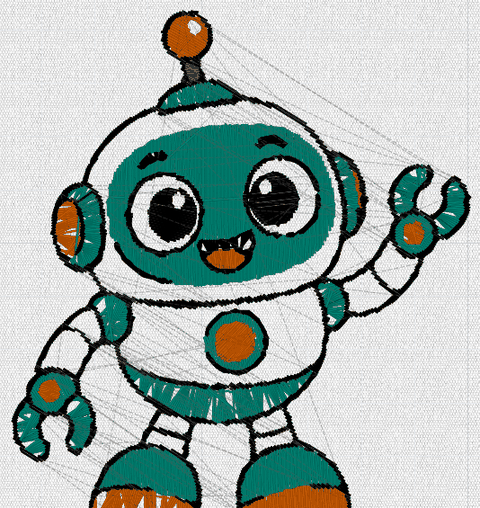
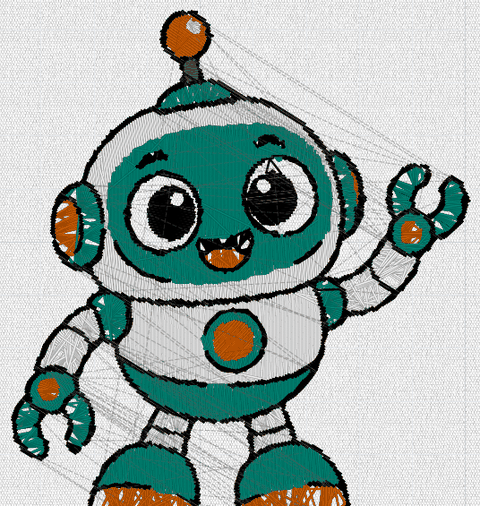
Auto Punch OpenStitch mode: line art keeps its lines
In OpenStitch mode the round-5 mandala (g11) sewed 211 stitches against
PE-DESIGN mode's 2,590. Three measured changes:

- The background is left out by colour, not by thread. Light-grey edge
  shades that share the white thread (9.7 ΔE00 from white) stay.
- On line art (the left-out background covers >= 75 % of the image),
  a small region whose mean width is <= 0.5 mm and which is at least
  twice as long stays as a piece of a line. This uses the new
  regions::merge_small_except. Applying it to every image undid the
  speck cleanup on photos.
- No majority pass. It erased 1 px lines and cost the lettering 0.6 ΔE.

Mandala: 2,195 stitches, ΔE 4.6 (PE-DESIGN mode 4.5). Nine other images,
against #240's first version: mean ΔE 8.7 -> 8.6, stitches -14 % (was
-20 %), trims -48 % (was -52 %) against PE-DESIGN mode, specks 10 (the
lettering's slivers). PE-DESIGN mode is unchanged.

New test open_stitch_mode_keeps_thin_lines, which fails without the
change. The gallery's OpenStitch images are regenerated. Docs: the
research note (section 2.2), ARCHITECTURE, FEATURE_MATRIX, ROADMAP and
the README wording.

diff --git a/crates/openstitch-digitize/src/autopunch.rs b/crates/openstitch-digitize/src/autopunch.rs
@@ -166,6 +166,14 @@ pub fn border_majority(labels: &[u16], w: usize, h: usize) -> Option<u16> {
         .next()
 }
 
+/// OpenStitch mode: a region under the minimum area is kept as a piece of a line when its mean
+/// width (area over its longest side) is at most this, mm, and it is at least twice as long.
+pub const LINE_WIDTH_MM: f64 = 0.5;
+
+/// OpenStitch mode treats an image as line art when the background it leaves out covers at
+/// least this share of the opaque pixels (the mandala about 0.9; photos and paintings far less).
+pub const LINE_ART_SHARE: f64 = 0.75;
+
 pub fn convert(image: &Raster, frame: &Frame, p: &AutoPunch) -> Result<Converted, DigitizeError> {
     let work = image.fit_mode(p.resolution.clamp(16, 2048));
     let frame = frame.rescaled(image.width(), work.width());
@@ -185,23 +193,63 @@ pub fn convert(image: &Raster, frame: &Frame, p: &AutoPunch) -> Result<Converted
         Mode::OpenStitch => Palette::from_census_perceptual(&census, colors),
     };
     let mut labels = label(&census, &palette);
-    let background = if p.skip_background {
-        border_majority(&labels, w, h)
-    } else {
-        None
-    };
-    if let Some(bg) = background {
-        for l in &mut labels {
-            if *l == bg {
-                *l = NONE;
+    let background = match (p.skip_background, p.mode) {
+        (false, _) => None,
+        (true, Mode::PeDesign) => {
+            let bg = border_majority(&labels, w, h);
+            if let Some(bg) = bg {
+                for l in &mut labels {
+                    if *l == bg {
+                        *l = NONE;
+                    }
+                }
             }
+            bg
         }
-    }
+        (true, Mode::OpenStitch) => {
+            // Only the background colour's own pixels are left out, not every colour that
+            // shares its thread: a thin line's light-grey edge shades sew in the white thread
+            // rather than vanish with the white background (round-5 mandala, g11).
+            let means: Vec<u16> = census
+                .modal
+                .iter()
+                .map(|m| m.map_or(NONE, |c| palette.nearest_mean(c) as u16))
+                .collect();
+            let bg = border_majority(&means, w, h);
+            if let Some(bg) = bg {
+                for (l, m) in labels.iter_mut().zip(&means) {
+                    if *m == bg {
+                        *l = NONE;
+                    }
+                }
+            }
+            bg.map(|m| palette.thread_of[m as usize] as u16)
+        }
+    };
     let unsmoothed = labels.clone();
     regions::majority(&mut labels, w, h, p.smooth.min(5));
     // The frame scales x and y alike, so the working pixel's mm/px is both ratios.
     let floor = small_region_floor(p.min_area_mm2, frame.mm_per_px());
-    regions::merge_small(&mut labels, w, h, floor + 1);
+    match p.mode {
+        Mode::PeDesign => regions::merge_small(&mut labels, w, h, floor + 1),
+        Mode::OpenStitch => {
+            // On line art (the left-out background covers at least [`LINE_ART_SHARE`] of the
+            // image) only compact specks merge: a small region whose mean width (area over its
+            // longest side) is at most [`LINE_WIDTH_MM`] is a piece of a line, and stays. On
+            // photos and paintings such slivers are edge shades, and merge.
+            let opaque = census.modal.iter().filter(|m| m.is_some()).count().max(1);
+            let left_out = labels.iter().filter(|&&l| l == NONE).count()
+                - census.modal.iter().filter(|m| m.is_none()).count();
+            let line_art = left_out as f64 >= LINE_ART_SHARE * opaque as f64;
+            let mm = frame.mm_per_px();
+            regions::merge_small_except(&mut labels, w, h, floor + 1, |k| {
+                let long = (k.x1 - k.x0).max(k.y1 - k.y0) as f64 * mm;
+                line_art
+                    && long >= 2.0 * LINE_WIDTH_MM
+                    && k.area as f64 * mm * mm / long <= LINE_WIDTH_MM
+            });
+        }
+    }
     let (mut id, mut comps) = regions::components(&labels, w, h);
     if comps.is_empty() && p.mode == Mode::OpenStitch {
         // OpenStitch mode's cleanup can merge away a drawing made only of thin lines (the

diff --git a/crates/openstitch-engine/src/digitize.rs b/crates/openstitch-engine/src/digitize.rs
@@ -129,7 +129,7 @@ pub fn commands() -> Vec<CommandSpec> {
                 opt(
                     "smooth",
                     "int 0-5",
-                    "Extra majority-filter passes on the labels after the 3×3 modal colour census (default 0; 1 in OpenStitch mode)",
+                    "Extra majority-filter passes on the labels after the 3×3 modal colour census (default 0)",
                 ),
                 opt(
                     "simplify",
@@ -165,17 +165,17 @@ pub fn commands() -> Vec<CommandSpec> {
             |s, p| {
                 let (image, frame) = load(s, p)?;
                 let mode = mode(p)?;
-                // OpenStitch mode also cleans up: regions under 3 mm² merge and the labels get
-                // one majority pass, unless the caller sets them.
-                let (min_area, smooth) = match mode {
-                    Mode::PeDesign => (1.0, 0),
-                    Mode::OpenStitch => (3.0, 1),
+                // OpenStitch mode also cleans up: specks under 3 mm² merge, unless the caller
+                // sets the area.
+                let min_area = match mode {
+                    Mode::PeDesign => 1.0,
+                    Mode::OpenStitch => 3.0,
                 };
                 let options = AutoPunch {
                     colors: count(p, "colors", AutoPunch::default().colors as i64, 0, 64)?,
                     resolution: count(p, "resolution", 400, 64, 2048)? as u32,
                     min_area_mm2: p.opt("minArea", min_area, 0.0, 1000.0)?,
-                    smooth: count(p, "smooth", smooth, 0, 5)? as u32,
+                    smooth: count(p, "smooth", 0, 0, 5)? as u32,
                     trace: trace_options(p, 0.7)?,
                     satin_max_mm: p.opt("satinMaxWidth", 6.5, 1.0, 12.0)?,
                     satin_min_mm: p.opt("satinMinWidth", 0.7, 0.0, 6.0)?,

diff --git a/crates/openstitch-digitize/tests/perceptual.rs b/crates/openstitch-digitize/tests/perceptual.rs
@@ -111,11 +111,40 @@ fn open_stitch_mode_merges_specks() {
         &AutoPunch {
             mode: Mode::OpenStitch,
             min_area_mm2: 3.0,
-            smooth: 1,
             ..AutoPunch::default()
         },
     )
     .expect("openstitch");
     assert!(pe.objects.len() > 1, "PE mode keeps the specks");
     assert_eq!(os.objects.len(), 1, "OpenStitch mode sews the field alone");
+}
+
+/// Line art keeps its lines in OpenStitch mode (the round-5 mandala, g11): short, thin pieces
+/// of a dark line with light-grey edges, on white, are not merged as specks, and their light
+/// edges are not left out with the white background that shares their thread.
+#[test]
+fn open_stitch_mode_keeps_thin_lines() {
+    // 200 × 200 px at 0.25 mm/px: dashes 1 px (0.25 mm) wide and 12 px (3 mm) long, each with
+    // a light-grey shade on both sides, on white.
+    let img = flat(200, 200, |x, y| {
+        let dash = (x / 16) % 2 == 0 && x > 8 && x < 192;
+        match y % 40 {
+            20 if dash => [30, 30, 30],
+            19 | 21 if dash => [215, 215, 215],
+            _ => [255, 255, 255],
+        }
+    });
+    let frame = Frame::new(0.0, 0.0, 50.0, 200);
+    let os = autopunch::convert(
+        &img,
+        &frame,
+        &AutoPunch {
+            mode: Mode::OpenStitch,
+            min_area_mm2: 3.0,
+            ..AutoPunch::default()
+        },
+    )
+    .expect("the dashes are sewn");
+    // Five lines of six dashes each.
+    assert_eq!(os.objects.len(), 30, "every dash of every line stays");
 }

diff --git a/crates/openstitch-digitize/src/palette.rs b/crates/openstitch-digitize/src/palette.rs
@@ -312,6 +312,15 @@ impl Palette {
 
     /// Thread index of the box mean nearest to `c` (ties to the lower index).
     pub fn classify(&self, c: Rgb) -> usize {
+        self.thread_of
+            .get(self.nearest_mean(c))
+            .copied()
+            .unwrap_or(0)
+    }
+
+    /// Index of the box mean nearest to `c` (ties to the lower index): by CIEDE2000 in
+    /// OpenStitch mode, by RGB distance otherwise.
+    pub fn nearest_mean(&self, c: Rgb) -> usize {
         if self.perceptual {
             let l = perceptual::lab(c);
             let mut best = (f64::INFINITY, 0);
@@ -321,7 +330,7 @@ impl Palette {
                     best = (d, i);
                 }
             }
-            return self.thread_of.get(best.1).copied().unwrap_or(0);
+            return best.1;
         }
         let t = thread(c);
         let mut best = (i64::MAX, 0);
@@ -331,7 +340,7 @@ impl Palette {
                 best = (d, i);
             }
         }
-        self.thread_of.get(best.1).copied().unwrap_or(0)
+        best.1
     }
 }
 

diff --git a/crates/openstitch-digitize/src/regions.rs b/crates/openstitch-digitize/src/regions.rs
@@ -107,13 +107,25 @@ pub fn majority(labels: &mut [u16], w: usize, h: usize, passes: u32) {
 /// unsewn pixels become unsewn. Smallest first; repeated until none is left (at most 8
 /// rounds).
 pub fn merge_small(labels: &mut [u16], w: usize, h: usize, min_area: usize) {
+    merge_small_except(labels, w, h, min_area, |_| false);
+}
+
+/// [`merge_small`], keeping the small components `keep` accepts (OpenStitch mode keeps the
+/// long, thin pieces of line art and merges only compact specks).
+pub fn merge_small_except(
+    labels: &mut [u16],
+    w: usize,
+    h: usize,
+    min_area: usize,
+    keep: impl Fn(&Component) -> bool,
+) {
     if min_area <= 1 {
         return;
     }
     for _ in 0..8 {
         let (id, comps) = components(labels, w, h);
         let mut small: Vec<usize> = (0..comps.len())
-            .filter(|&c| comps[c].area < min_area)
+            .filter(|&c| comps[c].area < min_area && !keep(&comps[c]))
             .collect();
         if small.is_empty() {
             return;

diff --git a/docs/FEATURE_MATRIX.md b/docs/FEATURE_MATRIX.md
@@ -179,7 +179,7 @@ PE-DESIGN reference, sew-out) is generated from the compatibility report into
 | Editor | Sewing simulator: slider, play/pause with speed, step, needle marker, current colour; statistics (stitches, jumps, trims, colour changes, size, colours) matching `design.generate` | Implemented | `render_model_stops_at_simulator_position`, `stats_match_engine_and_compiled_design`; docs/images/rust-editor-sim.png | Thread length, sewing time; compare with PE-DESIGN's Stitch Simulator |
 | Editor | Self-update: startup check of GitHub releases (semver with pre-release order), dialog with the unseen releases' notes, Dismiss, "Don't remind me about this version", Update (download, SHA256SUMS check, in-place swap or MSI, restart); Options: check at startup, include pre-releases, check now | Implemented (v0.1.0-alpha.4) | `crates/openstitch-update` (26 tests against a local HTTP server: tag grammar, install kinds, selection, checksums, download, stage/swap/cleanup), `editor/updates.rs` (`skipped_version_stays_quiet_until_a_newer_one`), `update_ui.rs`; docs/research/updater.md (end-to-end record), docs/images/rust-editor-update.png | Signed packages (minisign) so a compromised release host cannot serve a tampered build; delta downloads; the tarball's thumbnailer |
 | Beyond PE-DESIGN | Contour (offset) fill, region type `contour` (B1): rows that follow the outline at a constant distance, the first half a spacing inside, then one every spacing (default 2.0 mm, 0.5–20) to the middle; holes and paired hole sewing get rings of their own; an inset that splits (a U) sews one branch whole before the next; Rings (every ring a closed loop, starts staggered by a golden-ratio fraction of a stitch), Single spiral (one path per branch, PE-DESIGN's Spiral Stitch blend half a row inside) or Double spiral (in over every other ring and back out, ending beside the start); Echo lines 0–30 (rings outside the shape, sewn first from the outermost in); corners Round or Mitred; run pitch, start inside, counter-clockwise; no travel from R1 or to R2; editor: Region sew type "Contour fill" | Implemented (beyond PE-DESIGN, internal tier) | `object.setRegion {type: contour, contourStrategy, contourJoin, echoLines, spacing, runPitch}`; `circle_rings_are_concentric_half_a_spacing_in_then_a_spacing_apart`, `rounded_rectangle_rings_follow_the_outline_at_a_constant_distance`, `single_spiral_is_one_path_that_never_crosses_itself`, `double_spiral_ends_next_to_where_it_began`, `a_hole_gets_rings_of_its_own_and_is_never_sewn_over`, `a_u_shape_splits_and_each_arm_is_sewn_whole`, `echo_lines_ring_the_shape_from_the_outside_in_first`, `mitred_echo_rings_keep_square_corners_round_ones_do_not`, `start_inside_reverses_and_counterclockwise_turns_the_other_way`, `the_region_type_defaults_and_stays_deterministic`, `a_ring_that_collapses_is_sewn_all_round_before_the_remnant`; engine `contour_fill_is_set_sewn_saved_and_undone`, `contour_fill_keeps_out_of_a_paired_hole`; examples/contour-fill.json; sketch [research/beyond/contour-fill.md](research/beyond/contour-fill.md) | Repeats (bean passes); bevel join; compat specs `contour-*` (sketch §5); a docs screenshot |
-| Beyond PE-DESIGN | Image wizards' "OpenStitch" mode (B16), Auto Punch: `compatMode: openStitch` (image dialog: Mode PE-DESIGN / OpenStitch), colours reduced by k-means in CIELAB and matched to threads by CIEDE2000 (distinct colours keep distinct threads), regions under 3 mm² merged with one majority pass; PE-DESIGN mode stays the default and unchanged; on the test images mean ΔE00 9.1 → 8.7, stitches −20 %, trims −52 %, no specks | Implemented (beyond PE-DESIGN, internal tier) | `digitize.autoPunch {compatMode}`; `perceptual.rs`, `Palette::from_census_perceptual`; `de2000_matches_the_published_test_pairs`, `lab_round_trips_and_has_the_white_point`, `kmeans_moves_centres_to_their_weighted_members`, `perceptual_palette_keeps_hues_apart`, `open_stitch_mode_merges_specks`, `requests_carry_the_settings`; measured with `tools/image_eval.py`; README gallery "PE-DESIGN mode / OpenStitch mode" (`tools/gallery.py`); [research/beyond/image-digitizing.md](research/beyond/image-digitizing.md) | Thin line art loses its lines (falls back to PE-DESIGN's cleanup when nothing is left); Photo Stitch 1's perceptual palette and error diffusion, SLIC segmentation planned |
+| Beyond PE-DESIGN | Image wizards' "OpenStitch" mode (B16), Auto Punch: `compatMode: openStitch` (image dialog: Mode PE-DESIGN / OpenStitch), colours reduced by k-means in CIELAB and matched to threads by CIEDE2000 (distinct colours keep distinct threads), specks under 3 mm² merged (thin pieces of line art kept), the background left out by colour rather than by thread; PE-DESIGN mode stays the default and unchanged; on the test images mean ΔE00 9.1 → 8.6, stitches −14 %, trims −48 %, specks 220 → 10, the line-art mandala 2,195 stitches against PE mode's 2,590 | Implemented (beyond PE-DESIGN, internal tier) | `digitize.autoPunch {compatMode}`; `perceptual.rs`, `Palette::from_census_perceptual`; `de2000_matches_the_published_test_pairs`, `lab_round_trips_and_has_the_white_point`, `kmeans_moves_centres_to_their_weighted_members`, `perceptual_palette_keeps_hues_apart`, `open_stitch_mode_merges_specks`, `open_stitch_mode_keeps_thin_lines`, `requests_carry_the_settings`; measured with `tools/image_eval.py`; README gallery "PE-DESIGN mode / OpenStitch mode" (`tools/gallery.py`); [research/beyond/image-digitizing.md](research/beyond/image-digitizing.md) | Photo Stitch 1's perceptual palette and error diffusion, SLIC segmentation planned |
 | Beyond PE-DESIGN | Density profiles on fills and satin columns, two-colour blend command, hidden travel for open fills (B6) | Planned (beyond PE-DESIGN) | research/competitive-features.md F5, F6, F17; sketch [research/beyond/density-profiles-and-blend.md](research/beyond/density-profiles-and-blend.md) | Phase A |
 | Beyond PE-DESIGN | 3D puff satin mode: density, caps, no underlay or pull compensation, foam stop, ordering (B7) | Planned (beyond PE-DESIGN) | research/competitive-features.md F10; sketch [research/beyond/puff-mode.md](research/beyond/puff-mode.md) | Phase A |
 | Beyond PE-DESIGN | Crosshatch, curved crosshatch and double-zigzag lace as a region type (B8) | Planned (beyond PE-DESIGN) | research/competitive-features.md F7; sketch [research/beyond/crosshatch-and-lace.md](research/beyond/crosshatch-and-lace.md) | Phase A |

diff --git a/docs/research/beyond/image-digitizing.md b/docs/research/beyond/image-digitizing.md
@@ -70,11 +70,9 @@ Reading it:
   dark-green trees, the mosaic's greens and browns, the robot's teal.
 - **The lettering (g08) and folk bird (g15) lose 0.3–0.7 ΔE.** k-means moves a small accent
   colour towards its larger neighbours, and the anti-aliased letter edges merge.
-- **The mandala (g11), thin line art, loses its lines in OpenStitch mode.** The light-grey
-  line pixels match the white thread, which is the background. When cleanup leaves nothing,
-  the mode falls back to PE-DESIGN's cleanup. Line art belongs in Design Center's line image
-  anyway. The note for the next step: keep a centre that is distinct from the background off
-  the background's thread.
+- **The mandala (g11), thin line art, lost its lines in the first version.** The light-grey
+  line pixels matched the white thread, which is the background, and the 3 mm² cleanup
+  merged the line pieces. Fixed 2026-10-31 (section 2.2).
 
 Ablation:
 - **Perceptual matching of the median-cut colours alone:** robot 5.2 → 4.2, watercolour
@@ -86,6 +84,35 @@ Ablation:
   a cost of 0.3–0.7 ΔE when used alone.
 - **6 mm² with two passes:** costs more colour (storybook 12.1) for few further trims, so
   3 mm² was kept.
+
+## 2.2 Line art (2026-10-31)
+
+The mandala sewed 211 stitches in OpenStitch mode, against PE-DESIGN mode's 2,590. Three
+changes, each measured, bring it back to 2,195 stitches at ΔE 4.6 (PE-DESIGN mode 4.5):
+
+- **Background by colour, not by thread.** OpenStitch mode leaves out the background
+  colour's own pixels, not every colour that shares its thread. The mandala's light-grey
+  edge shades (centre 214, 9.7 ΔE00 from white) share the white thread with the background.
+  They were left out with it, and now stay.
+- **Thin pieces stay on line art.** When the left-out background covers at least 75 % of the
+  image, a region under the minimum area stays if its mean width (area over its longest side)
+  is at most 0.5 mm and it is at least twice as long. Lines and their dots stay; compact
+  specks still merge.
+  - Applying the rule to every image undid the speck cleanup on photos: the storybook went
+    back to 603 trims and 345 specks, because paintings are full of thin edge slivers. So it
+    applies to line art only.
+- **No majority pass.** The pass erased 1 px lines and cost the lettering 0.6 ΔE (8.1 →
+  7.6). Without it, OpenStitch mode is the perceptual palette and the 3 mm² cleanup.
+
+The nine other images, against the first version:
+
+| Version | Mean ΔE | Stitches vs PE mode | Trims vs PE mode | Specks |
+|---|---|---|---|---|
+| First version | 8.7 | −20 % | −52 % | 0 |
+| With these changes | 8.6 | −14 % | −48 % | 10 |
+
+The ten specks are the lettering's edge slivers (its cream background is over 75 %). The
+added stitches come from dropping the majority pass.
 
 ## 3. Methods
 
@@ -186,8 +213,9 @@ one.
   is unaffected.
 - **OpenStitch mode changes three things:**
   - the colour reduction (3.1);
-  - the default small-region area, 3 mm² instead of 1;
-  - one majority pass on the labels (3.2).
+  - the default small-region area, 3 mm² instead of 1, merging compact specks only on line
+    art;
+  - the background left out by colour rather than by thread (2.2).
 
   Settings the user changes still win.
 - **Other wizards:** Cross Stitch and the Photo Stitches stay PE-only until a method beats
@@ -197,8 +225,7 @@ one.
 
 1. **Auto Punch's OpenStitch mode**, as measured here. Then the gallery shows both modes side
    by side (`tools/gallery.py`).
-2. **Keep line art's lines:** a centre distinct from the background keeps its own thread (the
-   g11 failure).
+2. **Keep line art's lines:** done 2026-10-31 (2.2).
 3. **Photo Stitch 1's perceptual palette and error diffusion (3.6)**, measured on the photos
    (p01, p04, p07) with the same harness.
 4. **SLIC before Auto Punch on photos (3.3)**, if 1 and 3 leave the painted images ragged.

diff --git a/README.md b/README.md
@@ -101,6 +101,19 @@ named; `python3 tools/gallery.py` regenerates them.
 | <img src="examples/images/g15-folk-bird.png" width="200"> | <img src="docs/images/readme/gallery/g15.png" width="260"> | **Cross Stitch, defaults**<br>4,467 stitches, 4 colours |
 <!-- gallery:end -->
 
+Auto Punch also has an **OpenStitch** mode (➕, the image dialog's Mode choice): colours are
+reduced and matched to threads by how they look, and regions under 3 mm² merge, for fewer
+trims and specks. PE-DESIGN mode stays the default
+([research](docs/research/beyond/image-digitizing.md)).
+
+<!-- gallery-modes:start -->
+| Image | PE-DESIGN mode | OpenStitch mode |
+|---|---|---|
+| <img src="examples/images/g05-robot-cartoon.png" width="200"> | <img src="docs/images/readme/gallery/g05-pe.png" width="260"><br>11,897 stitches, 231 trims, 6 colours | <img src="docs/images/readme/gallery/g05-os.png" width="260"><br>11,176 stitches, 204 trims, 5 colours |
+| <img src="examples/images/g06-watercolour-lemons.jpg" width="200"> | <img src="docs/images/readme/gallery/g06-pe.png" width="260"><br>18,278 stitches, 284 trims, 9 colours | <img src="docs/images/readme/gallery/g06-os.png" width="260"><br>13,662 stitches, 111 trims, 7 colours |
+| <img src="examples/images/p03-storybook.jpg" width="200"> | <img src="docs/images/readme/gallery/p03-pe.png" width="260"><br>41,676 stitches, 699 trims, 8 colours | <img src="docs/images/readme/gallery/p03-os.png" width="260"><br>30,627 stitches, 284 trims, 10 colours |
+<!-- gallery-modes:end -->
+
 ## Features
 
 Features marked **➕** go beyond PE-DESIGN 11: they are off unless you choose them, so
@@ -163,6 +176,8 @@ PE-DESIGN 11.50's defaults, tie-in and lock, measured from its own files.
   regions, cross stitches or photo-style lines. These are independent approximations of
   PE-DESIGN's wizards, compared with its output.
 - **Design Center** pipeline (image → outline → figure → sew settings) and the Stitch Wizard.
+- ➕ **OpenStitch mode for Auto Punch**: colours reduced and matched to threads by how they
+  look, small regions merged; fewer trims and specks. PE-DESIGN mode stays the default.
 - **Background images** (PNG, JPEG, BMP or the clipboard): place, crop, rotate, adjust and trace
   over.
 

diff --git a/docs/ROADMAP.md b/docs/ROADMAP.md
@@ -328,7 +328,7 @@ before any code; the ranking and the proposed tracks are in
 | B13 | Density map, troubleshoot, thread conversion, auto hoop | E | [research/beyond/quality-tools.md](research/beyond/quality-tools.md) | Sketched; not started |
 | B14 | Stitch-file resize with density | E | [research/beyond/stitch-file-resize.md](research/beyond/stitch-file-resize.md) | Sketched; not started |
 | B15 | Lettering: baselines, kerning, team names, connections | E | [research/beyond/lettering-depth.md](research/beyond/lettering-depth.md) | Sketched; not started |
-| B16 | Image wizards' "OpenStitch" mode beside the PE-DESIGN default: perceptual colour reduction (CIELAB k-means, CIEDE2000 thread matching) and region cleanup for Auto Punch first | — | [research/beyond/image-digitizing.md](research/beyond/image-digitizing.md) | Auto Punch's OpenStitch mode done 2026-10-31 (`compatMode: openStitch`, image dialog Mode): measured on the test images (`tools/image_eval.py`), mean ΔE00 9.1 → 8.7, stitches −20 %, trims −52 %, no specks; next: thin line art, Photo Stitch 1's perceptual palette and error diffusion, SLIC |
+| B16 | Image wizards' "OpenStitch" mode beside the PE-DESIGN default: perceptual colour reduction (CIELAB k-means, CIEDE2000 thread matching) and region cleanup for Auto Punch first | — | [research/beyond/image-digitizing.md](research/beyond/image-digitizing.md) | Auto Punch's OpenStitch mode done 2026-10-31 (`compatMode: openStitch`, image dialog Mode): measured on the test images (`tools/image_eval.py`), mean ΔE00 9.1 → 8.6, stitches −14 %, trims −48 %, specks 220 → 10; line art keeps its lines since 2026-10-31 (mandala 2,195 stitches, PE mode 2,590); next: Photo Stitch 1's perceptual palette and error diffusion, SLIC |
 
 Deferred: linear colour-gradient and tartan fills, shape and vine fills, photo
 thread-painting, sequin/chenille/bead types (machine-specific), the TrueType turning-satin

diff --git a/docs/ARCHITECTURE.md b/docs/ARCHITECTURE.md
@@ -281,8 +281,13 @@ Verified Compatible).
     from the ones already on a thread takes its next-nearest free thread;
   - pixels are classified against the centres by CIEDE2000
     (`Palette::from_census_perceptual`);
-  - the small-region default is 3 mm², with one majority pass. When that cleanup leaves
-    nothing (thin line art), PE-DESIGN's cleanup is used instead.
+  - only the background colour's own pixels are left out, not every colour that shares its
+    thread;
+  - the small-region default is 3 mm², with no majority pass. On line art (the left-out
+    background covers at least 75 % of the image), a small region at most 0.5 mm wide on
+    average and at least twice as long stays as a piece of a line
+    (`regions::merge_small_except`). When the cleanup leaves nothing, PE-DESIGN's cleanup is
+    used instead.
 
   PE-DESIGN mode is the default and is unchanged.
 - **Auto Punch.** Optional extra majority smoothing of the labels (3×3, default none),
